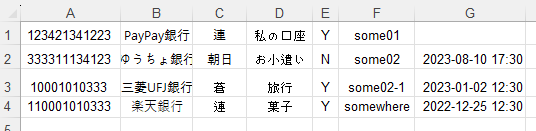
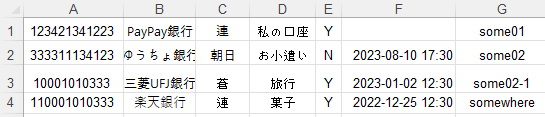
xls 사용법 변경

Changed region(s): [[0.0, 0.0256, 1.0, 1.0], [0.8657, 0.2051, 0.9851, 0.3077], [0.6567, 0.2051, 0.7463, 0.3077]]

diff --git a/help.html b/help.html
@@ -305,22 +305,23 @@
                   <img src="./assets/img/xls_upload_1_ex.png" class="img-fluid" border="0">
 
                   <pre><code class="language-pug" style="font-size:12px">
-A 컬럼: 계좌번호(숫자만)
+A 컬럼: 계좌번호 [숫자만]
 B 컬럼: 은행명
 C 컬럼: 예금주
 D 컬럼: 계좌별명
-E 컬럼: 예금주 일부 감추기 여부(대문자 Y 또는 N)
-F 컬럼: 네이버 스토어 아이디(선택) (https://smartstore.naver.com/[이곳에 들어가는 정보])
-G 컬럼: 계좌정보 만료일시(선택) (2023-08-08 15:30:12)
+E 컬럼: 예금주 일부 감추기 여부 [대문자 Y 또는 N]
+F 컬럼: 계좌정보 만료일시(선택) [2023-08-08 15:30:12]
+G 컬럼: 카카오페이 주소(선택) [https://qr.kakaopay.com/abcde]
+H 컬럼: 네이버 스토어 주소(선택) [https://smartstore.naver.com/abcde]
                   </code></pre>
                 </p>
                 <br>                
                 <p class="lead"><span class="step-circle step-circle-sm">2</span> 파일 선택 버튼을 클릭하여 엑셀파일을 선택하세요.</p>
                 <br>
                 <p class="lead"><span class="step-circle step-circle-sm">3</span> 업로드 버튼을 클릭해 주세요.</p>
-                <br>                
+                <br>
+                <p class="lead"><i class="fas fa-comment"></i> 예제 엑셀 파일 [<a href="./file/test.xlsx">다운로드</a>]</p>
                 <p class="lead"><i class="fas fa-comment"></i> 모든 시트에 존재하는 계좌 정보를 등록합니다.</p>
-                <p class="lead"><i class="fas fa-comment"></i> 예제 엑셀 파일 [<a href="./assets/test.xlsx">내려받기</a>]</p>
               </div>
             </li>                                 
           </ul>                    

diff --git a/help_ja.html b/help_ja.html
@@ -126,13 +126,13 @@
                   <img src="./assets/img/xls_upload_1_ex_ja.png" class="img-fluid" border="0">
 
                   <pre><code class="language-pug" style="font-size:12px">
-Aコラム:口座番号(数字のみ)
+Aコラム:口座番号 [数字のみ]
 Bコラム:銀行名
 Cコラム:預金主
 Dコラム:口座ニックネーム
-Eコラム:預金州の一部隠すことの可否(大文字YまたはN)
-Fコラム:支店名
-Gコラム:口座情報の満了日時 (選択) (2023-08-08 15:50:12)
+Eコラム:預金州の一部隠すことの可否 [大文字YまたはN]
+Fコラム:口座情報の満了日時 (選択) [2023-08-08 15:50:12]
+Gコラム:支店名
                   </code></pre>
                 </p>
                 <br>
@@ -141,7 +141,7 @@ Gコラム:口座情報の満了日時 (選択) (2023-08-08 15:50:12)
                 <p class="lead"><span class="step-circle step-circle-sm">3</span> アップロードボタンをクリックしてください。</p>
                 <br>                
                 <p class="lead"><i class="fas fa-comment"></i> すべてのシートに存在する口座情報を登録します。</p>
-                <p class="lead"><i class="fas fa-comment"></i> 例題エクセルファイル [<a href="./assets/test_ja.xlsx">ダウンロード</a>]</p>
+                <p class="lead"><i class="fas fa-comment"></i> 例題エクセルファイル [<a href="./file/test_ja.xlsx">ダウンロード</a>]</p>
               </div>
             </li>                                 
           </ul>                    
